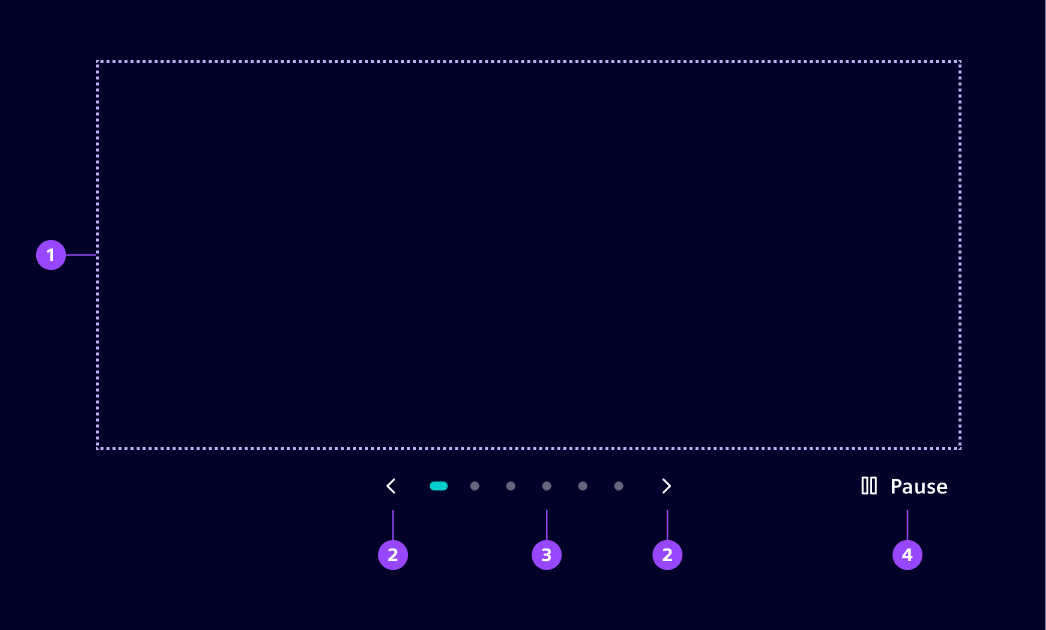
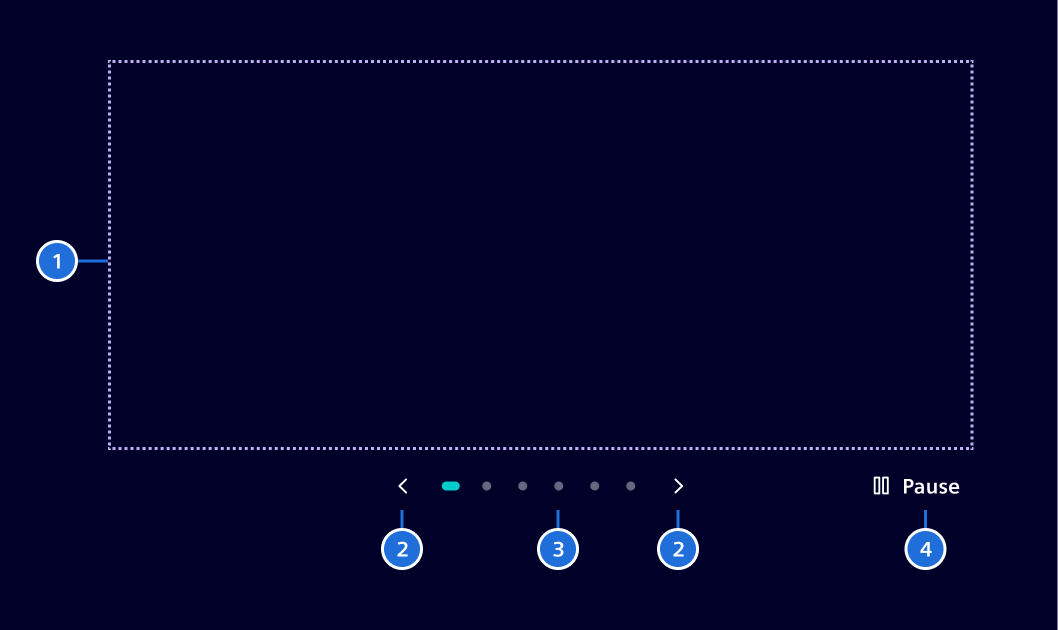
docs(carousel): update ux docs

diff --git a/docs/components/layout-navigation/carousel.md b/docs/components/layout-navigation/carousel.md
@@ -1,7 +1,7 @@
 # Carousel
 
 The **carousel** displays a set of related content in a horizontal row,
-allowing users to cycle through them automatically or with controls.
+supporting to cycle through them automatically or manually by the user with navigation controls.
 
 ## Usage ---
 
@@ -15,7 +15,8 @@ and each item follows a consistent structure (e.g., same card layout, similar co
 - To surface multiple related items.
 - When content can be browsed one page at a time without losing context.
 - When space is limited and showing all items at once would overwhelm the layout.
-- In unattended display contexts (monitors, presentation screens) using slideshow mode with auto-play.
+- In unattended display contexts (e.g., monitors, presentation screens) using
+  slideshow mode with auto-play.
 
 ### Best practices
 
@@ -46,8 +47,8 @@ What goes inside that slot (one card, three cards, a grid, images) can be define
 
 ### Auto-play
 
-When auto-play is enabled, the carousel advances to the next slide after a configurable interval.
-A play/pause button is shown alongside the navigation controls so users can stop or resume at any time.
+When auto-play is enabled, the carousel advances to the next slide after a configurable interval. A play/pause button is shown alongside the navigation controls so
+users can pause or resume at any time.
 
 Auto-play works in both carousel and slideshow modes.
 